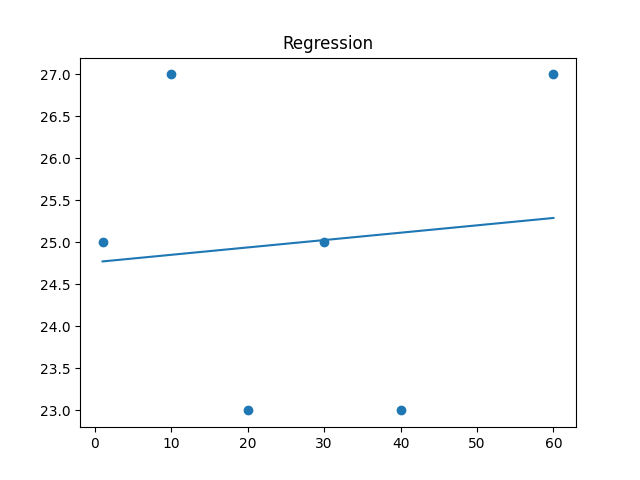
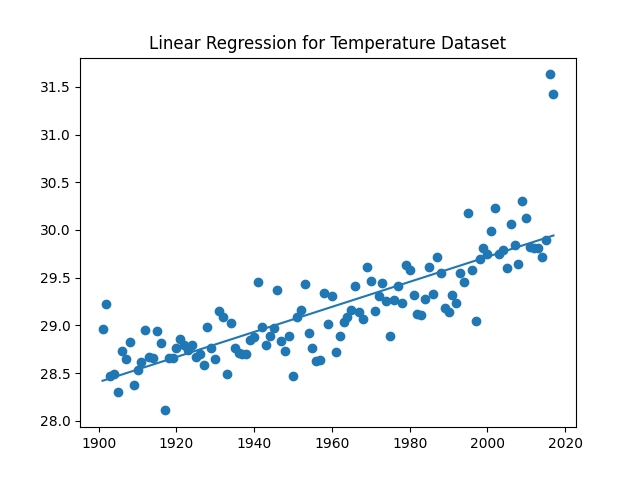
Use temperature dataset

diff --git a/templates/page.html b/templates/page.html
@@ -36,7 +36,12 @@
             <input type="text" id="xinput" name="xinput" placeholder="1 2 3..."><br><br>
             <label>Y Inputs:</label>
             <input type="text" id="yinput" name="yinput" placeholder="1 2 3..."><br><br>
+
+            <input type="checkbox" id="temp" name="temp">
+            <label for="temp"> Temperature Dataset</label><br><br>
+
             <button type="submit"> Submit </button>
+
         </form>
 
     </body>

diff --git a/model.py b/model.py
@@ -2,6 +2,7 @@ import matplotlib
 matplotlib.use('Agg')
 import matplotlib.pyplot as plt
 from scipy import stats
+import pandas as pd
 
 x = []
 y = []
@@ -31,6 +32,26 @@ def plotgraph():
   model = list(map(myfunc,x))
 
   plt.title("Linear Regression")
+  plt.scatter(x,y)
+  plt.plot(x, model)
+  plt.savefig("static/figure.png")
+  plt.close()
+
+def plottempgraph():
+
+  dt = pd.read_csv("static/temperatures.csv")
+
+  x = dt["YEAR"]
+  y = dt["ANNUAL"]
+
+  slope, intercept, r, p, std_err = stats.linregress(x,y)
+
+  def myfunc(x):
+    return slope*x + intercept
+
+  model = list(map(myfunc,x))
+
+  plt.title("Linear Regression for Temperature Dataset")
   plt.scatter(x,y)
   plt.plot(x, model)
   plt.savefig("static/figure.png")

diff --git a/main.py b/main.py
@@ -1,14 +1,18 @@
 from flask import Flask, render_template, request
 app = Flask(__name__)
 
-from model import plotgraph, getinput
+from model import plotgraph, getinput, plottempgraph
 
 @app.route("/", methods=["GET", "POST"])
-def hello_world():
-
+def run_model():
+    
     if request.method == "POST":
-        getinput(request.form["xinput"], request.form["yinput"])
-        plotgraph()
+        
+        if request.form.get("temp"):
+            plottempgraph()
+        else:
+            getinput(request.form["xinput"], request.form["yinput"])
+            plotgraph()
 
     return render_template("page.html")
 
